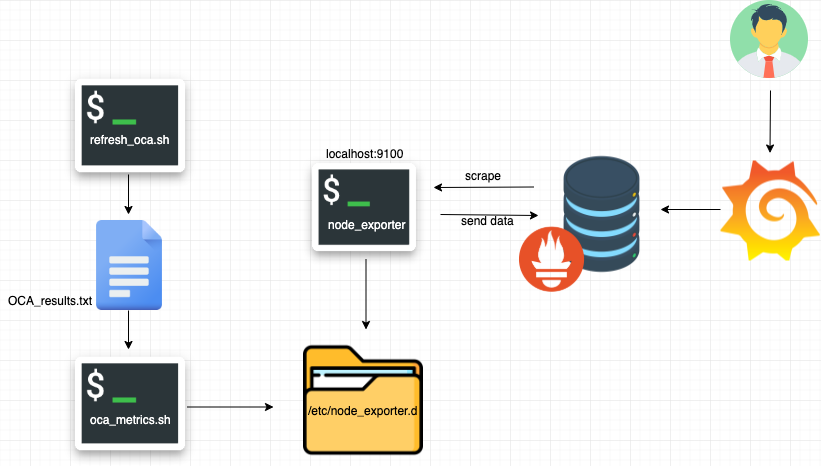
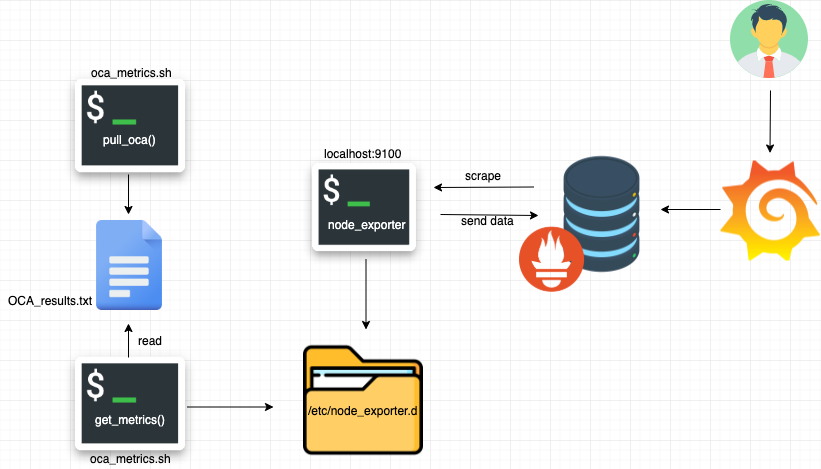
updates

diff --git a/README.md b/README.md
@@ -4,29 +4,59 @@ Montior Linode's one-click marketplace applications with Prometheus and Grafana.
 
 # How it works
 
-We are going to be using Prometheus and Grafana as an observatory platform to display the metrics that we are scrapting from Linode's stackscript endpoint. Before getting this working you will need server with Prometheus, Grafana and Node Exporter. 
+We are going to be using Prometheus and Grafana as an observatory platform to display metrics that we are scrapting from Linode's stackscript endpoint. Before getting this working you will need a server with Prometheus, Grafana and Node Exporter. 
 
-Node Exporter is started using the textfile collector which allows it to collect statistical data from `/etc/node_exporter.d`. The data collected in this directory is then scraped by Prometheus. We use 2 scripts to put scrape all of the data that we need before it's put in `/etc/node_exporter.d`:
+Node Exporter should be started using the textfile collector which allows it to collect statistical data from `/etc/node_exporter.d`. The data collected in this directory is read by node exporter and exposed to Prometheus. We use one script to scrape all of the data and place it in `/etc/node_exporter.d`. There are 2 functions responsible for everything
 
-- scripts/refresh_oca.sh
-- scripts/oca_metrics.sh
+- pull_oca
+- get_metrics
 
-refresh_oca.sh iterates through every page in the `api.linode.com/v4/linode/stackscripts` and grabs the associated  OCAS stackscript IDs and writes out to a file. The oca_metrics.sh iterates through the file that was written and parses for particular elements of the OCA which will be used in the dashboard.
+The pull_oca run a midnight which iterates through every page in the `api.linode.com/v4/linode/stackscripts` and grabs the associated OCAs stackscript IDs and writes out to a file. Every minute get_metrics iterates through the file that was written and parses for particular elements to be used in our dashboard.
 
-The refresh of the OCAs occur routinely at midnight via cron job while the actual metrics of the OCAs are scraped every minute.
-
-
-The flow of operation can be observed below - 
+The flow of operation can be observed below:
 ![](/images/overview.png)
-
-# Setup
-
-YOU ARE HREE. INSTRUCTIONS ON CRON, SCRIPTS, NODE_EXPORTER TEXFILE COLLECTOR
 
 # Requirements
 
 - Latest version of [Prometheus](https://prometheus.io/docs/prometheus/latest/installation/)
-- Latest version of [Grafana]https://grafana.com/docs/grafana/latest/installation/debian/)
+- Latest version of [Grafana](https://grafana.com/docs/grafana/latest/installation/debian/)
+
+# Setup
+
+Before installing the OCA dashboard you will need to make sure that Node Exporter is started with the textfile collector. You can view the systemd service file in `systemd/node_exporter.service` for reference.
+
+### Step 1 - Setup
+
+First, you'll need to create the node_exporter.d directory and make the script executable:
+```
+mkdir /etc/node_exporter.d
+cp linode-oca-metrics/script/oca_metrics.sh /root/
+cd /root && chmod +x oca_metrics.sh
+```
+
+### Step 2 - Run it
+
+Next, you can either setup the cron and forget about it. But for the sake of excercise, we'll run the script manually and then create the cron jobs:
+```
+cd /root
+./oca_metrics.sh get_metrics
+```
+
+Running the script for the first time will take a while because the script needs to fetch all of the OCAs from the API endpoint. Might be wise to put this in a screen session because it can take 8 minutes.
+
+### Step 3 - Cron It
+
+The last thing we want to do to do is create the following cron jobs:
+
+```
+# Refresh OCA app at midnight
+0 0 * * * /bin/bash /root/oca_metrics.sh pull_oca
+
+# Get OCA metrics
+* * * * * /bin/bash /root/oca_metrics.sh get_metrics
+```
+
+We fetch for new OCAs once everyday at midnight and get stats for the current ones we have every minute.
 
 # Install Dashboard
 
@@ -41,8 +71,10 @@ The installation is pretty straight forward and all you have to do is import the
 
 ![](/images/step2.png)
 
-3. Hit the `Import` button.
+3. On the next screen hit the `Import` button.
 
 Pretty simple and straightforward - You're done!
 
-![](/images/dashboard_preview.png)
+![](/images/dashboard_preview1.png)
+
+One thing you will notice is that the `OCA Trend` panel will not have any data because the `Min step` is set to 30 minutes. You will need to wait at least 24 hours to have at least 48 data points or remove the `Min step` by editing the panel.
